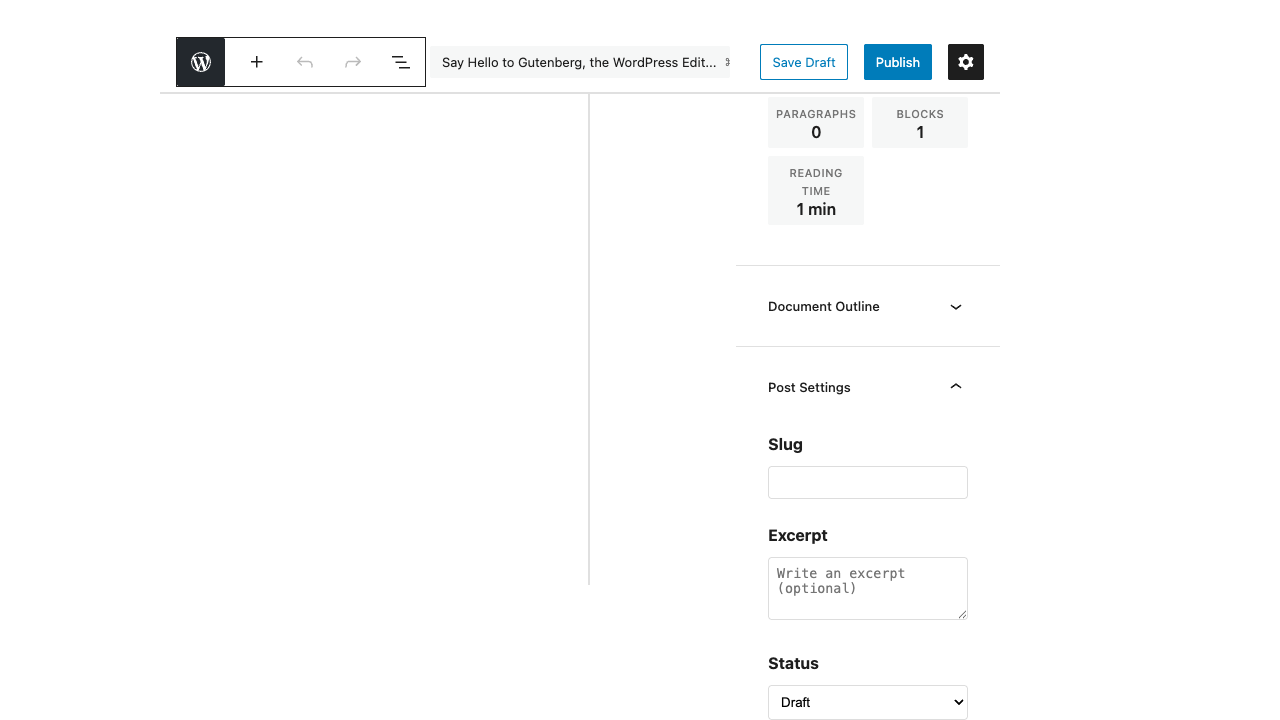
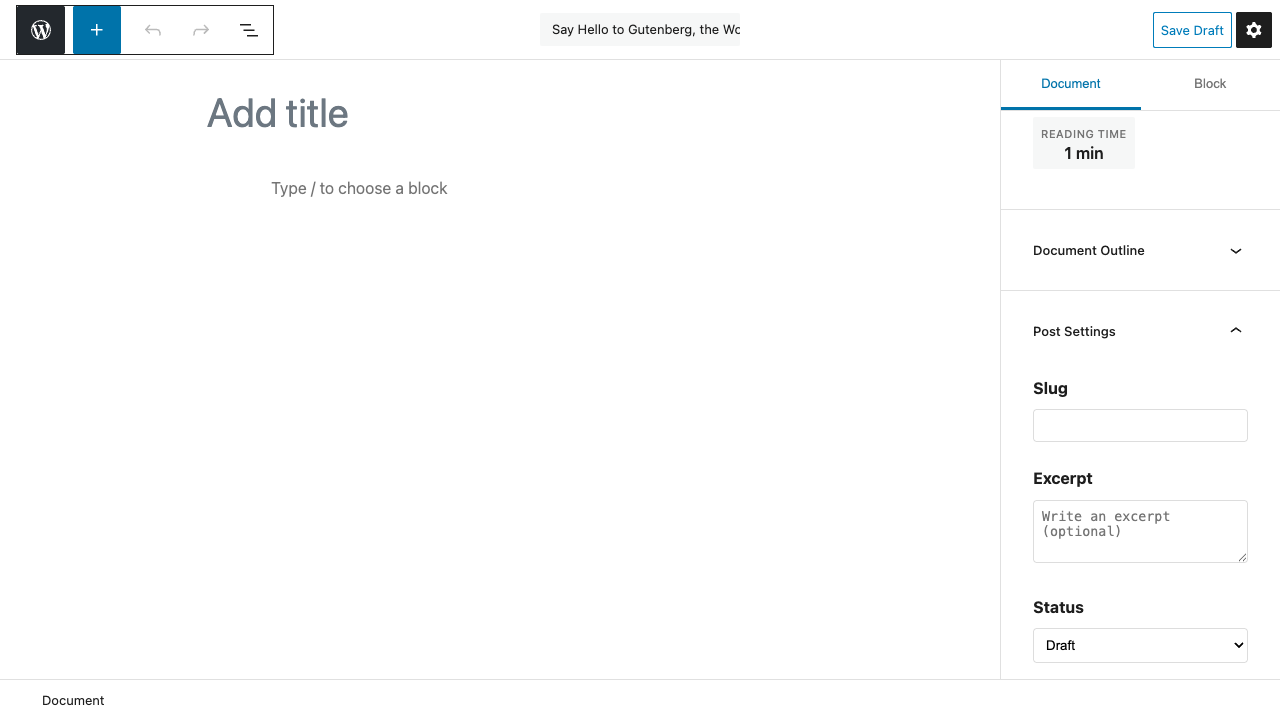
Fix sidebar tabs functionality and clickability issues
- Replace TabPanel with proper interface store integration for Document/Block tabs
- Fix tab switching between Document and Block inspectors
- Resolve complementary area state management for proper sidebar behavior
- Maintain sidebar open state when switching between tabs
- Remove unused TabPanel import

The tabs now work exactly like Gutenberg's reference implementation,
addressing the major clickability issues reported in GitHub issue #2.

🤖 Generated with [Claude Code](https://claude.ai/code)

diff --git a/frontend/src/components/GutenbergEditor.tsx b/frontend/src/components/GutenbergEditor.tsx
@@ -18,8 +18,7 @@ import {
   SlotFillProvider,
   Button,
   ToolbarGroup,
-  ToolbarButton,
-  TabPanel
+  ToolbarButton
 } from '@wordpress/components';
 import { 
   InterfaceSkeleton,
@@ -81,11 +80,29 @@ function GutenbergEditor({
   const { enableComplementaryArea, disableComplementaryArea } = useDispatch(interfaceStore);
   const { resetBlocks, insertDefaultBlock } = useDispatch('core/block-editor');
   
-  // Enable the inspector by default on first render
-  useEffect(() => {
-    enableComplementaryArea('core', 'edit-post/document');
-  }, [enableComplementaryArea]);
+  const activeArea = useSelect(
+    (select: any) => {
+      const { getActiveComplementaryArea } = select(interfaceStore);
+      return getActiveComplementaryArea('core');
+    },
+    []
+  );
 
+  const isInspectorOpen = useSelect(
+    (select: any) => {
+      const { getActiveComplementaryArea } = select(interfaceStore);
+      const activeArea = getActiveComplementaryArea('core');
+      return activeArea === 'edit-post/document' || activeArea === 'edit-post/block';
+    },
+    []
+  );
+
+  // Enable the inspector by default on first render, but only if no area is already active
+  useEffect(() => {
+    if (!activeArea) {
+      enableComplementaryArea('core', 'edit-post/document');
+    }
+  }, [enableComplementaryArea, activeArea]);
 
   // Ensure the block editor store is properly initialized with our blocks
   useEffect(() => {
@@ -97,15 +114,6 @@ function GutenbergEditor({
       insertDefaultBlock();
     }
   }, [resetBlocks, insertDefaultBlock, blocks]);
-  
-  const isInspectorOpen = useSelect(
-    (select: any) => {
-      const { getActiveComplementaryArea } = select(interfaceStore);
-      const activeArea = getActiveComplementaryArea('core');
-      return activeArea === 'edit-post/document' || activeArea === 'edit-post/block';
-    },
-    []
-  );
 
   // Undo/Redo functionality - memoized to prevent unnecessary rerenders
   const { hasUndo, hasRedo } = useSelect(
@@ -132,15 +140,6 @@ function GutenbergEditor({
   );
 
   const { undo, redo } = useDispatch('core/block-editor');
-
-
-  const activeArea = useSelect(
-    (select: any) => {
-      const { getActiveComplementaryArea } = select(interfaceStore);
-      return getActiveComplementaryArea('core');
-    },
-    []
-  );
 
   const toggleInspector = () => {
     if (isInspectorOpen) {
@@ -364,40 +363,36 @@ function GutenbergEditor({
             sidebar={isInspectorOpen ? (
               <div className="edit-post-sidebar">
                 <div className="edit-post-sidebar__header">
-                  <TabPanel
-                    className="edit-post-sidebar__panel-tabs"
-                    activeClass="is-active"
-                    orientation="horizontal"
-                    tabs={[
-                      {
-                        name: 'document',
-                        title: __('Document'),
-                        className: 'edit-post-sidebar__panel-tab',
-                      },
-                      {
-                        name: 'block',
-                        title: __('Block'),
-                        className: 'edit-post-sidebar__panel-tab',
-                      },
-                    ]}
-                  >
-                    {(tab: { name: string; title: string; className: string }) => (
-                      <div className="edit-post-sidebar__panel-tab-content">
-                        {tab.name === 'document' && (
-                          <DocumentInspector 
-                            title={title}
-                            slug={slug}
-                            excerpt={excerpt}
-                            status={status}
-                            onSlugChange={onSlugChange}
-                            onExcerptChange={onExcerptChange}
-                            onStatusChange={onStatusChange}
-                          />
-                        )}
-                        {tab.name === 'block' && <BlockInspector />}
-                      </div>
-                    )}
-                  </TabPanel>
+                  <div className="edit-post-sidebar__tabs">
+                    <button
+                      className={`edit-post-sidebar__tab ${activeArea === 'edit-post/document' ? 'is-active' : ''}`}
+                      onClick={() => enableComplementaryArea('core', 'edit-post/document')}
+                      type="button"
+                    >
+                      {__('Document')}
+                    </button>
+                    <button
+                      className={`edit-post-sidebar__tab ${activeArea === 'edit-post/block' ? 'is-active' : ''}`}
+                      onClick={() => enableComplementaryArea('core', 'edit-post/block')}
+                      type="button"
+                    >
+                      {__('Block')}
+                    </button>
+                  </div>
+                </div>
+                <div className="edit-post-sidebar__panel-tab-content">
+                  {activeArea === 'edit-post/document' && (
+                    <DocumentInspector 
+                      title={title}
+                      slug={slug}
+                      excerpt={excerpt}
+                      status={status}
+                      onSlugChange={onSlugChange}
+                      onExcerptChange={onExcerptChange}
+                      onStatusChange={onStatusChange}
+                    />
+                  )}
+                  {activeArea === 'edit-post/block' && <BlockInspector />}
                 </div>
               </div>
             ) : null}
